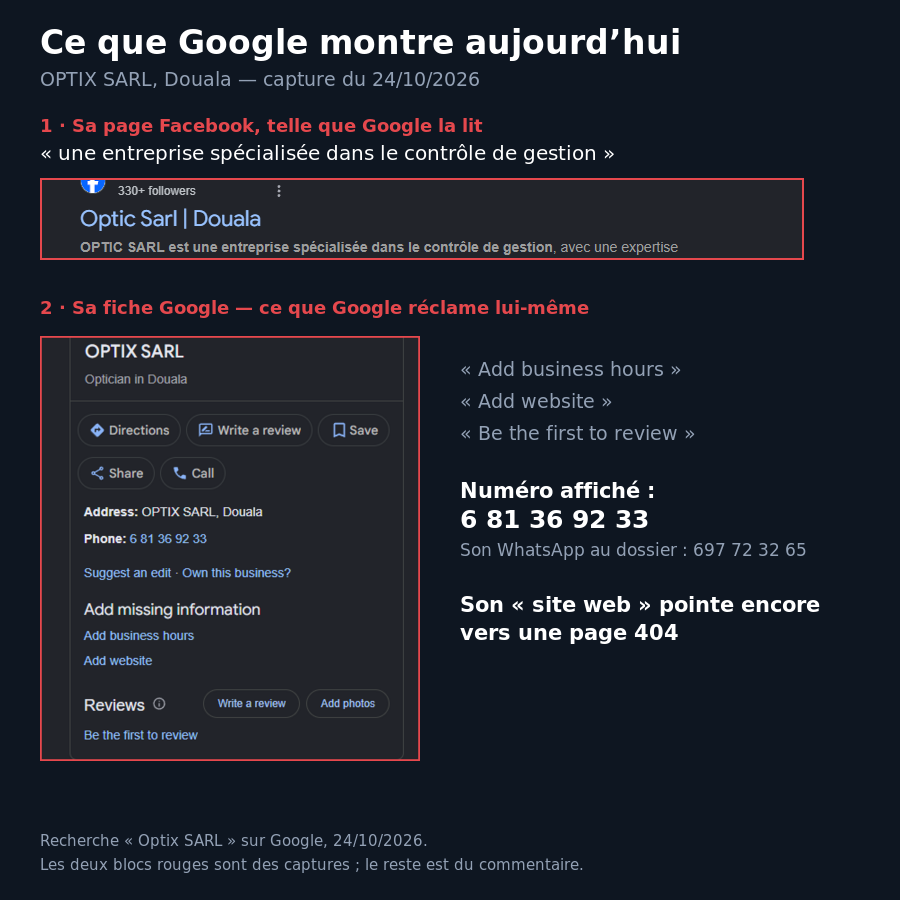
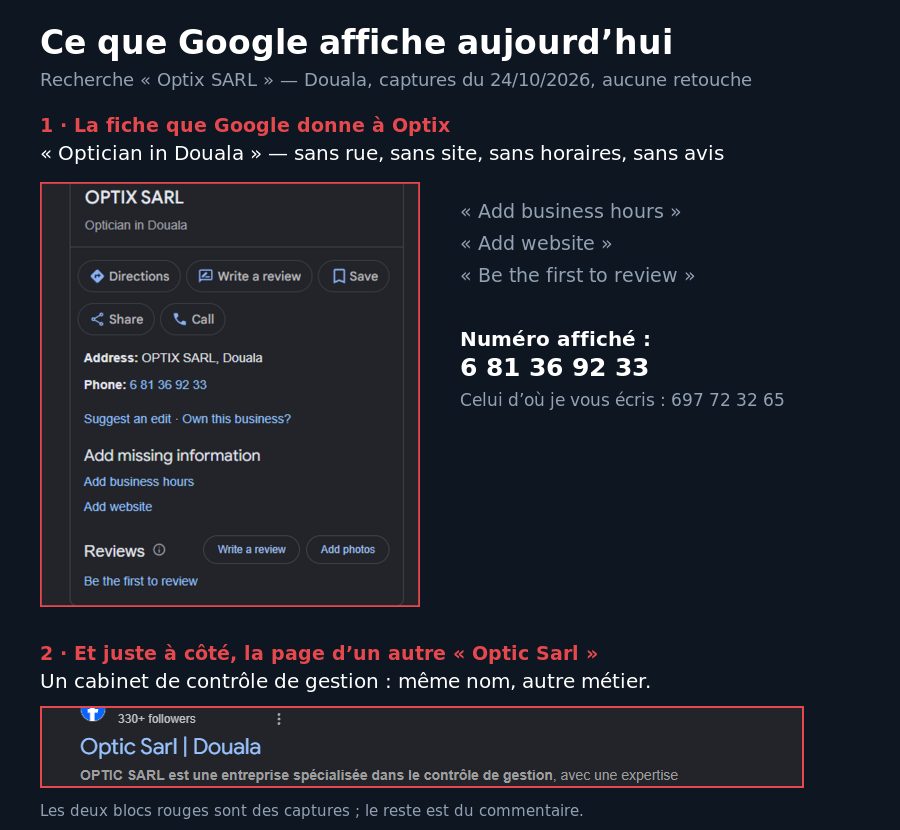
Optix part le 25/10 seul ; message réécrit (la page Facebook de Google n'est pas la sienne) ; porte A sur 26 numéros ; DM Optique en contre-exemple
- correction de fond : la page « Optic Sar l | Douala » affichée par Google est un cabinet d'expertise
  comptable (ange raphael, 6 96 14 77 46, formation-optic@gmail.com), pas Optix SARL. Google classe bien
  Optix « Optician in Douala ». « votre page Facebook » est retiré du message : le 404 est daté, pas
  l'appartenance de la page.
- capture refaite (900×830) : bloc 1 = la fiche Google, bloc 2 = la page de l'homonyme, chacune nommée
- message du 25/10 : 54 mots, 4 phrases, 1 question, porte OK 0/0 ; plus de « bonjour à Akwa », plus de
  « la capture vient de votre fiche »
- calendrier : dim 25/10 Optix seul (réaction ≠ silence, pas de J+2/J+3) ; froids du 26 au 30 ; rien le 31
- sales/PORTE-A-2026-10-25.md : 26 numéros à vérifier (6 du lot + 20 du scout), format à cocher
- PACK-OPTICIEN : DM Optique en contre-exemple vérifiable (tableau fiche complète vs fiche Optix)
- Activity-Log : entrée 25/10

diff --git a/sales/PORTE-A-2026-10-25.md b/sales/PORTE-A-2026-10-25.md
@@ -1,0 +1,84 @@
+# Porte A — les numéros à vérifier sur WhatsApp (25/10/2026)
+
+```text
+Qui       : King (toi seul — un profil WhatsApp ne se vérifie pas à distance)
+Combien   : 26 numéros · 6 du lot d'envoi + 20 du scout ONOC
+Durée     : ~4 minutes (10 s par numéro)
+Ce qu'on note : le numéro est-il sur WhatsApp ? et sous quel nom le profil s'affiche-t-il ?
+Pourquoi  : une règle sans porte est un trou (§109). Six numéros sur dix-huit sont tombés à ce stade
+            le 10/10 ; 16 des 61 opticiens déjà au CRM n'ont jamais eu de WhatsApp.
+Sources   : tableau de l'Ordre pour les 20 du scout (lignes 87–158) ; lot du 26/10 pour les 6.
+```
+
+## 1 · Les 6 du lot d'envoi — à faire **avant** le premier message
+
+| # | Cabinet | Numéro | Sur WhatsApp ? | Nom affiché sur le profil | Quand il part |
+|---|---|---|---|---|---|
+| 1 | **③ Optix** | **697 72 32 65** | ☐ oui · ☐ non | ______________ | suivi 25/10 — a réagi 👍 le 24/10 |
+| 2 | **⑥ Bouda Seidou** | **677 76 03 49** | ☐ oui · ☐ non | ______________ | froid — lundi 26/10 |
+| 3 | **⑨ COMED** | **699 915 652** | ☐ oui · ☐ non | ______________ | froid — mardi 27/10 |
+| 4 | **⑧ IVY** | **697 945 251** | ☐ oui · ☐ non | ______________ | froid — mercredi 28/10 |
+| 5 | **⑩ CMO Jolinom** | **677 466 425** | ☐ oui · ☐ non | ______________ | froid — jeudi 29/10 |
+| 6 | **⑦ Le Sourire** | **698 00 78 08** | ☐ oui · ☐ non | ______________ | froid — vendredi 30/10 |
+
+**③ Optix part demain, dimanche 25/10** : après la porte A, tu colles le texte du §2 du lot et tu
+**joins** `clients/dm-optic/launch/optix/capture-optix-2026-10-24.png`. Si le numéro n'est pas sur
+WhatsApp, il ne part pas — et on l'écrit ici, pas ailleurs.
+
+## 2 · Les 20 numéros du scout ONOC — à faire **après**, en une session
+
+| # | Cabinet | Numéro | Sur WhatsApp ? | Nom affiché sur le profil | Note |
+|---|---|---|---|---|---|
+| 7 | Alpha Optic | **699 57 34 57** | ☐ oui · ☐ non | ______________ | scout ONOC, ligne 87 — jamais contacté |
+| 8 | Saoudia Optique | **696 04 04 13** | ☐ oui · ☐ non | ______________ | scout ONOC, ligne 88 — jamais contacté |
+| 9 | Centrale d'Optique Panafricaine Sarl | **695 29 79 04** | ☐ oui · ☐ non | ______________ | scout ONOC, ligne 89 — jamais contacté |
+| 10 | ISEE | **656 97 80 43** | ☐ oui · ☐ non | ______________ | scout ONOC, ligne 90 — jamais contacté |
+| 11 | Free Optic | **679 11 37 60** | ☐ oui · ☐ non | ______________ | scout ONOC, ligne 105 — jamais contacté |
+| 12 | La Fierté de l'Optique | **695 17 90 57** | ☐ oui · ☐ non | ______________ | scout ONOC, ligne 106 — jamais contacté |
+| 13 | Emeraude Optique Sarl | **699 90 99 60** | ☐ oui · ☐ non | ______________ | scout ONOC, ligne 108 — jamais contacté |
+| 14 | Optimat Vision Sarl | **699 86 53 46** | ☐ oui · ☐ non | ______________ | scout ONOC, ligne 111 — jamais contacté |
+| 15 | Light Optique | **677 64 87 90** | ☐ oui · ☐ non | ______________ | scout ONOC, ligne 114 — jamais contacté |
+| 16 | Ets Espace Médical | **655 04 95 29** | ☐ oui · ☐ non | ______________ | scout ONOC, ligne 124 — jamais contacté |
+| 17 | S.O.S Vision | **699 86 04 63** | ☐ oui · ☐ non | ______________ | scout ONOC, ligne 125 — jamais contacté |
+| 18 | ASS pour RRPHDD | **675 39 90 23** | ☐ oui · ☐ non | ______________ | scout ONOC, ligne 134 — jamais contacté |
+| 19 | Bellevue Optique | **694 89 26 96** | ☐ oui · ☐ non | ______________ | scout ONOC, ligne 135 — jamais contacté |
+| 20 | La Fibre Optique | **694 42 26 40** | ☐ oui · ☐ non | ______________ | scout ONOC, ligne 138 — jamais contacté |
+| 21 | La Lunetterie Médicale El Shadai | **696 89 64 11** | ☐ oui · ☐ non | ______________ | scout ONOC, ligne 139 — jamais contacté |
+| 22 | Pagrot Optique | **699 90 46 91** | ☐ oui · ☐ non | ______________ | scout ONOC, ligne 141 — jamais contacté |
+| 23 | Capelli Optique Médicale | **675 26 89 81** | ☐ oui · ☐ non | ______________ | scout ONOC, ligne 155 — jamais contacté |
+| 24 | Optique Pro | **690 03 48 18** | ☐ oui · ☐ non | ______________ | scout ONOC, ligne 156 — jamais contacté |
+| 25 | World Vision | **656 03 21 72** | ☐ oui · ☐ non | ______________ | scout ONOC, ligne 157 — jamais contacté |
+| 26 | Maranatha Optics | **658 16 31 90** | ☐ oui · ☐ non | ______________ | scout ONOC, ligne 158 — jamais contacté |
+
+**Le 21ᵉ cabinet du scout n'est pas là, à dessein** : **Prism Optique** (ligne 86 de l'annuaire) ne
+publie qu'un **fixe**, 233 42 62 73. Il n'y a rien à vérifier sur WhatsApp : il reste au CRM comme
+trace de couverture, sans `wa_number`, et il n'entrera dans aucune vague.
+
+## 3 · Comment on vérifie, en 10 secondes par numéro
+
+1. **Ouvre WhatsApp → Nouvelle discussion → colle le numéro** (format `6XX XX XX XX`).
+2. **Un nom s'affiche ?** → il est sur WhatsApp. Note le nom exact : c'est lui qui dira si le cabinet
+   s'appelle comme dans l'annuaire.
+3. **WhatsApp propose « Inviter à rejoindre WhatsApp » ?** → **il n'y est pas.** Coche « non », passe.
+4. **Profil Business avec photo/logo ?** → note-le : c'est le meilleur signal d'achat (une page qui
+   existe déjà quelque part est un gérant qui se soucie de son image).
+
+## 4 · Trois pièges, déjà rencontrés — à ne pas repayer
+
+- **Deux cabinets peuvent publier le même numéro.** Star Optic (ligne 154) donne 699 93 93 34, le
+  numéro de **Médina Optic** — une seule ligne au CRM, pas deux.
+- **« Centrale Optique » ≠ « Centrale d'Optique Panafricaine ».** La première est disqualifiée depuis le
+  12/10 (aucun WhatsApp sur ses deux numéros) ; la seconde est neuve (695 29 79 04). Le verdict de
+  l'une ne s'applique pas à l'autre.
+- **Le numéro du tableau n'est pas toujours celui de la fiche.** Optix : l'Ordre publie 681 36 92 33,
+  Google affiche 681 36 92 33, et le message part du 697 72 32 65. **On ne déduit jamais le numéro de
+  l'endroit où on écrit.**
+
+## 5 · Ce qu'on fait du résultat
+
+- **Sur WhatsApp** → `wa_verified="yes"` au CRM (par le générateur, pas à la main), et le cabinet entre
+  dans la vague suivante, **avec son quartier et sa fuite réelle**.
+- **Pas sur WhatsApp** → `wa_verified="no"` + motif daté (`excluded_no_wa`, ruling du 12/10) : plus
+  jamais contacté sur ce canal, et **aucun appel** (un opticien sans WhatsApp n'entre pas au pipeline).
+- **Profil Business vu** → on note le nom exact du profil : première ligne de la note CRM, et souvent
+  le meilleur indice de ce qui l'intéresse.

diff --git a/sales/Activity-Log.md b/sales/Activity-Log.md
@@ -5680,3 +5680,47 @@ citent maintenant les entrées de journal du 20 et du 21/10.
 
 **Le prochain geste, un seul.** Les cinq messages froids du lot du 26/10 partent d'abord (Optix avec sa
 capture, §10.3). La porte A des 20 numéros se passe ensuite, en une session de 4 minutes.
+
+## 25/10/2026 — Optix part aujourd'hui, seul, et le message dit enfin une chose vraie
+
+**Trois rulings de King, appliqués.** ① Optix part **le dimanche 25/10**, et c'est le **seul** message
+du jour : il a réagi 👍 le 24/10 à 12:12, on ne le fait pas attendre « un jour plein » pour obéir à un
+délai J+2/J+3 qui protège les **silencieux**, pas ceux qui ont montré quelque chose. ② La fiche Google
+de **DM Optique** sert de **contre-exemple** face à un opticien qui demande à quoi ressemble une fiche
+complète — documenté au `PACK-OPTICIEN` §« Le contre-exemple vérifiable ». ③ La liste des numéros à
+vérifier est écrite : `sales/PORTE-A-2026-10-25.md`, **26 numéros** (6 du lot + 20 du scout), format
+à cocher, ~4 minutes.
+
+**Et le message a été réécrit, parce que King a démonté celui d'avant — à juste titre.** Quatre
+reproches, tous fondés : « bonjour à Akwa ou à Optix ? », « la capture ci-jointe vient de votre fiche —
+elle a fait quoi ?? », « votre page Facebook… est faux », et « je ne comprends pas ce que vous essayez
+de transmettre ».
+
+**Le fond du reproche sur Facebook est le plus grave, et il change un fait du dossier.** La page
+« Optic Sar l | Douala » que Google affiche **n'est pas celle du cabinet** : c'est un **cabinet
+d'expertise comptable** (« optimisation des coûts, fiscalité, création d'entreprise, business plan,
+contrôle de gestion, formation », page « Service de comptabilité », `ange raphael, Douala`,
+**6 96 14 77 46**, `formation-optic@gmail.com`, 333 abonnés). Même nom à une lettre près, autre métier,
+autre numéro. Le cabinet, lui, n'a **aucune** page Facebook visible sur Google. Donc :
+- « Google vous présente comme une entreprise de contrôle de gestion » était **faux** — Google classe
+  bien Optix « Optician in Douala » ; le contrôle de gestion est le métier de l'homonyme ;
+- « votre page Facebook renvoie vers un site qui n'existe plus » est **retiré** : le 404 est daté, mais
+  l'appartenance de cette page au cabinet n'est pas prouvée par une capture. **Ce qu'on ne peut pas
+  dater ne part pas.**
+
+**Le nouveau message — 54 mots, 4 phrases, 1 question, porte OK 0/0, capture jointe :**
+
+> Bonjour, c'est King. À Akwa carrefour Idéal, voici ce que Google affiche pour Optix : la fiche est
+> classée « Optician in Douala », sans rue, sans site, sans horaires — et à côté apparaît un autre
+> « Optic Sarl », un cabinet de contrôle de gestion.
+> Ce n'est pas de votre fait.
+> Deux minutes, sans moi : ça vous parle ?
+
+Il ne dit plus **que** ce que la capture montre. L'homonyme n'est pas une preuve contre lui : c'est ce
+que **son patient** voit, et c'est pour ça que le message ne l'accuse de rien. La capture a été
+**refaite** pour le dire correctement (bloc 1 = sa fiche, bloc 2 = la page de l'homonyme, chacune
+nommée pour ce qu'elle est).
+
+**Le calendrier qui suit** : dimanche 25/10 Optix seul · lundi 26/10 Bouda · mardi 27/10 COMED ·
+mercredi 28/10 IVY · jeudi 29/10 Jolinom · vendredi 30/10 Le Sourire · **rien le 31/10** (jour du
+paiement DM Optique).

diff --git a/sales/PACK-OPTICIEN-2026-10.md b/sales/PACK-OPTICIEN-2026-10.md
@@ -17,6 +17,31 @@
   pas rebuild — couche config dans le build Univers).
 - Ils veulent « quelque chose + site web » : le pack est exactement cette demande.
 
+## Le contre-exemple vérifiable — la fiche Google de DM Optique (25/10, ruling King)
+
+Quand un opticien demande « à quoi ça ressemble, une fiche complète ? », **on ne décrit pas : on montre
+DM Optique**. Sa fiche Google est en ligne, complète, et c'est **notre** travail — donc elle est à nous,
+elle ne dépend d'aucune capture d'un tiers, et elle est vérifiable par le prospect en dix secondes.
+
+Ce qu'elle porte, et qui fait la démonstration à notre place :
+
+| Ce qu'un patient voit | DM Optique (fiche complète) | Optix (capture du 24/10) |
+|---|---|---|
+| catégorie | Opticien | « Optician in Douala » — correcte, mais en anglais |
+| adresse | complète (rue, quartier) | « OPTIX SARL, Douala » — **aucune rue** |
+| horaires | publiés | Google réclame « **Add business hours** » |
+| site web | renseigné | Google réclame « **Add website** » |
+| avis | collectés, répondus | « **Be the first to review** » |
+
+**Comment s'en servir, en une phrase** (jamais avant qu'il demande, jamais en ouverture) : « votre fiche
+ressemble à ça aujourd'hui *[la sienne]* ; celle-ci est celle d'un opticien de Douala qu'on a faite
+*[DM Optique]* — même métier, même ville ». Puis on se tait.
+
+**Ce qu'on ne dit pas** : « voilà ce qu'on a fait pour lui » sans qu'il demande (preuve sociale non
+sollicitée = vantardise), et **aucun chiffre de résultat** tant que le premier client n'a pas payé
+(§Preuve ci-dessus). La fiche est un **objet**, pas un résultat — c'est exactement pour ça qu'elle peut
+se montrer : elle ne promet rien.
+
 ## Ce que le pack n'est JAMAIS
 Pas de claim médical · pas de remise (trade scope/timing) · pas de Play Store · pas de mensuel creux ·
 pas de travail sur la démo d'un prospect sans demande (règle 03/10) · pas de site re-pitché à Univers.

diff --git a/sales/SCOUT-ONOC-2026-10-24.md b/sales/SCOUT-ONOC-2026-10-24.md
@@ -114,7 +114,7 @@ précède : `python3 leads/build/guard.py check` (rc 1 si un générateur a boug
 
 | Ce qui reste | Pourquoi ce n'est pas fait ici | Qui |
 |---|---|---|
-| **Porte A** sur les 20 numéros (profil WhatsApp vu) | il faut un téléphone qui ouvre WhatsApp et un jugement : le numéro de l'Ordre peut être un fixe, une ligne d'agence ou un numéro partagé | **King**, 20 ouvertures, ~4 min |
+| **Porte A** sur les 20 numéros (profil WhatsApp vu) | il faut un téléphone qui ouvre WhatsApp et un jugement : le numéro de l'Ordre peut être un fixe, une ligne d'agence ou un numéro partagé | **King**, 20 ouvertures, ~4 min — liste prête à cocher : `sales/PORTE-A-2026-10-25.md` |
 | Vérifier s'ils ont déjà un site ou une page Facebook | demande une recherche par cabinet (20 × 2) ; inutile tant que la porte A n'a pas dit qui est joignable | après la porte A |
 | Écrire les messages | un message par cabinet, avec son quartier et sa fuite réelle : **pas avant** la porte A et le contrôle du site (règle « pas de site par prospect avant réponse ») | après la porte A |
 | Choisir le segment (cold vs re-engage) | tous les 21 sont **cold** : aucun n'a jamais été contacté | — |
